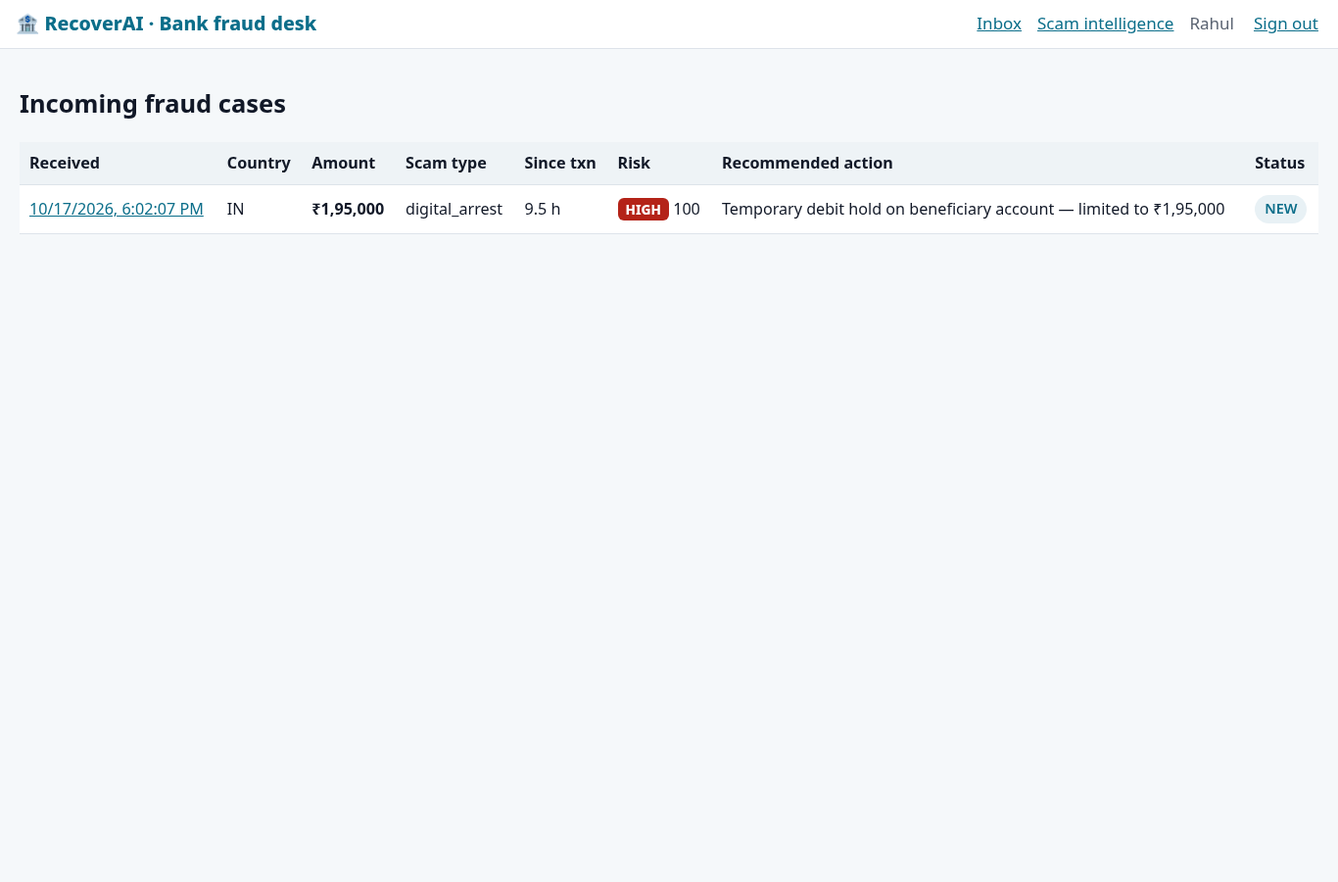
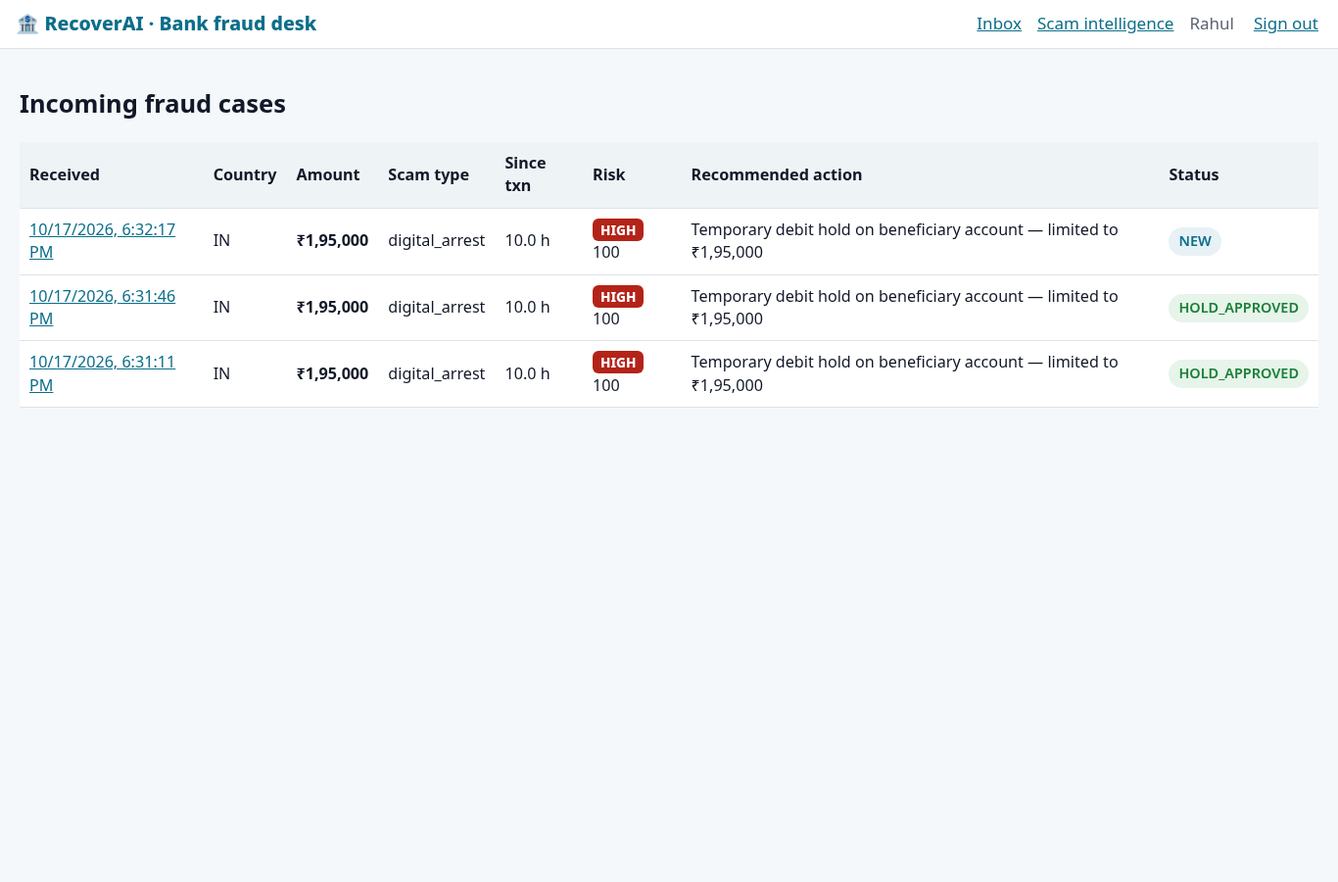
Scripts/docs: async e2e checks (push delivery, BQ features, decision latency, sources), reset, README v2.2

diff --git a/scripts/e2e_demo.py b/scripts/e2e_demo.py
@@ -6,6 +6,8 @@ Deployed stack:     API_BASE=$(cat deploy/.state/run_url) python scripts/e2e_dem
   (anonymous victim sign-in + analyst password sign-in via the Firebase Auth REST API, using
    deploy/.state/sdkconfig.json and deploy/.state/bank_password written by deploy/deploy.sh)
 Exits non-zero on the first failed check. DEMO_MODE must be on for the time-travel step.
+Checks the v2.2 backbone too: bank case created via the fraud-case-submitted Pub/Sub push with BigQuery features,
+the bank decision reaching the victim via bank-decision (timed against the 3 s target), and a cited source (F16).
 """
 from __future__ import annotations
 
@@ -45,6 +47,10 @@ class Api:
         r.raise_for_status()
         return r.json()
 
+    def get_or_none(self, p):
+        r = self.c.get(self.url(p))
+        return r.json() if r.status_code == 200 else None
+
     def post(self, p, body=None):
         r = self.c.post(self.url(p), json=body or {})
         if r.status_code >= 400:
@@ -75,6 +81,16 @@ class Api:
 
     def paste(self, cid, fname):
         return self.post(f"/api/cases/{cid}/evidence", {"type": "text", "textContent": (FIX / fname).read_text()})
+
+
+def poll(fn, timeout: float, every: float = 0.5):
+    end = time.time() + timeout
+    while time.time() < end:
+        r = fn()
+        if r:
+            return r
+        time.sleep(every)
+    return None
 
 
 def kinds(evs):
@@ -122,15 +138,30 @@ def india(v: Api, bank: Api) -> None:
     check(all("612345678901" in d["en"] and "612345678901" in d["local"] for d in card(evs, "drafts")["drafts"]), "drafts carry UTR")
     pack = v.post(f"/api/cases/{cid}/evidence-pack")
     check(httpx.get(v.url(pack["url"]), timeout=60).content[:4] == b"%PDF", "evidence pack PDF downloads")
+    t_send = time.time()
     case = v.post(f"/api/cases/{cid}/send-to-bank", {"consent": True})["case"]
-    check(case["bankStatus"] == "SENT", "case sent to bank via A2A")
+    check(case["bankStatus"] == "SENT" and case.get("bankCaseId"), "consent → published to fraud-case-submitted")
     print(f"  (victim flow {time.time() - t0:.1f}s)")
-    bc = next(b for b in bank.get("/api/bank/cases")["cases"] if b["caseId"] == cid)
-    d = bank.get(f"/api/bank/cases/{bc['id']}")["case"]
+    d = poll(lambda: bank.get_or_none(f"/api/bank/cases/{case['bankCaseId']}"), 15)
+    check(d is not None, f"bank case created by Pub/Sub push ({time.time() - t_send:.1f}s after consent)")
+    d = d["case"]
     check(d["riskLevel"] == "HIGH" and d["recommendedAction"] == "TEMPORARY_HOLD", "bank: HIGH risk, temporary hold recommended")
-    bank.post(f"/api/bank/cases/{bc['id']}/decision", {"decision": "APPROVE_HOLD"})
-    check(v.get(f"/api/cases/{cid}")["case"]["bankStatus"] == "HOLD_APPROVED", "victim sees hold approved")
+    f = d.get("txnFeatures") or {}
+    check(d.get("txnStatus") == "ok" and f.get("credits_24h") == 9 and f.get("account_age_days") == 21,
+          f"signals from transaction data ({d.get('txnSource')}, {d.get('txnQueryMs')} ms)")
+    if d.get("mlRiskScore") is not None:
+        print(f"  (ML mule-risk {d['mlRiskScore']} — advisory)")
+    t_dec = time.time()
+    bank.post(f"/api/bank/cases/{d['id']}/decision", {"decision": "APPROVE_HOLD"})
+    ok = poll(lambda: v.get(f"/api/cases/{cid}")["case"]["bankStatus"] == "HOLD_APPROVED" or None, 10, 0.25)
+    took = time.time() - t_dec
+    check(bool(ok), f"victim sees hold approved via bank-decision event ({took:.1f}s{' — over the 3 s target!' if took > 3 else ''})")
     check(kinds(v.chat(cid, {"text": "Pay ₹5,000 fee and we recover your money"}))[:1] == ["warning"], "recovery-scam warning first")
+    done = next(e for e in v.chat(cid, {"text": "Will I definitely get my money back?"}) if e.get("type") == "done")
+    srcs = (done.get("message") or {}).get("sources") or []
+    check(bool(srcs), f"honest answer cites an official source: {srcs[0]['title'][:60] if srcs else '-'}")
+    intel = bank.get("/api/bank/analytics")
+    check(bool(intel.get("repeat_beneficiaries")), f"scam intelligence panels ({intel.get('source')})")
     r = v.post(f"/api/cases/{cid}/clock", {"jumpToDay": 31})
     check([m["card"]["kind"] for m in r["messages"] if m.get("card")] == ["escalation"], "day-31 ombudsman escalation")
     check(v.post(f"/api/cases/{cid}/clock", {"addDays": 1})["messages"] == [], "escalation fires exactly once")

diff --git a/scripts/reset_demo.py b/scripts/reset_demo.py
@@ -1,15 +1,17 @@
 #!/usr/bin/env python3
-"""Reset demo data between runs: deletes victim cases, bank cases and audit entries, then re-seeds bank accounts.
+"""Reset demo data before recording / judging: delete victim cases, bank cases, audit entries and Pub/Sub dedupe
+records in Firestore, then re-seed the BigQuery synthetic bank data (fresh timestamps) and case_events.
 
-  GOOGLE_CLOUD_PROJECT=<id> MOCK_MODE=false python scripts/reset_demo.py --yes
-  MOCK_MODE=true LOCAL_DATA_DIR=.localdata python scripts/reset_demo.py --yes   # local mock store
+  GOOGLE_CLOUD_PROJECT=recoverai-511917 MOCK_MODE=false ANALYTICS_BACKEND=bigquery BQ_LOCATION=asia-south1 \\
+      python scripts/reset_demo.py --yes
+  MOCK_MODE=true LOCAL_DATA_DIR=backend/.localdata python scripts/reset_demo.py --yes   # local mock store
 Evidence objects in GCS expire via the bucket lifecycle rule; local blobs live under LOCAL_DATA_DIR.
 """
 import argparse
 import sys
 
 import _path  # noqa: F401
-from app.seed import seed_bank_accounts
+from app.seed import seed_bank_data
 from app.store import get_store
 
 
@@ -17,6 +19,7 @@ def main() -> None:
     ap = argparse.ArgumentParser()
     ap.add_argument("--yes", action="store_true", help="really delete")
     ap.add_argument("--keep-victim-cases", action="store_true")
+    ap.add_argument("--no-ml", action="store_true")
     a = ap.parse_args()
     if not a.yes:
         sys.exit("refusing to delete without --yes")
@@ -34,8 +37,9 @@ def main() -> None:
     for x in s.list_audit():
         s.delete_audit(x["id"])
         na += 1
-    seed_bank_accounts(s, force=True)
-    print(f"deleted {nc} cases, {nb} bank cases, {na} audit entries; bank accounts re-seeded")
+    npe = s.delete_processed_events()
+    stats = seed_bank_data(with_ml=not a.no_ml)
+    print(f"deleted {nc} cases, {nb} bank cases, {na} audit entries, {npe} processed events; re-seeded bank data: {stats}")
 
 
 if __name__ == "__main__":

diff --git a/scripts/ui_smoke.py b/scripts/ui_smoke.py
@@ -64,6 +64,10 @@ def main() -> None:
         bank.screenshot(path=str(SHOTS / "04-bank-case-detail.png"), full_page=True)
         bank.get_by_role("button", name="Approve temporary hold").click()
         bank.wait_for_selector(".pill.bstat-HOLD_APPROVED")
+        bank.get_by_role("link", name="Scam intelligence").click()
+        bank.wait_for_selector(".intel table tbody tr")
+        bank.wait_for_timeout(500)
+        bank.screenshot(path=str(SHOTS / "09-bank-scam-intelligence.png"), full_page=True)
 
         pg.goto(case_url)
         pg.wait_for_selector("text=अस्थायी रोक", timeout=10000)

diff --git a/README.md b/README.md
@@ -6,8 +6,9 @@
 2. builds the country-specific recovery plan (India 1930 / NCRP / bank; Malaysia NSRC 997 / bank) from a YAML playbook,
 3. drafts every complaint at once (hotline script, portal complaint, bank letter) and a Hindi-capable evidence-pack PDF,
 4. tracks the legal deadlines and escalates on its own (RBI Ombudsman on day 31),
-5. hands the case, with consent, to a **bank fraud-desk agent** over an A2A envelope. That agent scores mule-account signals with deterministic rules and recommends a temporary, amount-limited debit hold. A human analyst decides, and the victim sees the decision live.
-6. A **recovery-scam guard** runs before the co-pilot on every message.
+5. hands the case, with consent, to a **bank fraud-desk agent**: an A2A envelope published on **Pub/Sub** (`fraud-case-submitted`). That agent queries the beneficiary account's real transaction history in **BigQuery**, scores mule-account signals with deterministic rules (plus an advisory **BigQuery ML** score), and recommends a temporary, amount-limited debit hold. A human analyst decides, and the decision flows back over Pub/Sub (`bank-decision`) to the victim's chat.
+6. grounds explanations of rules in official sources through **Vertex AI Search**, with citations.
+7. A **recovery-scam guard** runs before the co-pilot on every message.
 
 > **Disclaimer:** RecoverAI is a hackathon prototype. It drafts documents and reminders. It is not legal advice, it never handles money, and it never charges victims. All decisions are taken by government agencies and your bank. Every bank account, person and transaction in this repo is synthetic.
 
@@ -33,8 +34,17 @@ flowchart LR
     PB["Playbook engine + clocks<br/>IN.yaml · MY.yaml<br/>(lazy, idempotent)"]
     FIL["Filing agent<br/>templates + Gemini polish"]
     PDF["Evidence pack<br/>WeasyPrint + Noto"]
-    BR["Bank receiver agent<br/>/api/bank/a2a/inbox<br/>deterministic risk rules"]
+    BR["Bank receiver agent<br/>/bank/a2a/inbox (Pub/Sub push)<br/>deterministic risk rules"]
+    EV["Decision handler<br/>/api/events/bank-decision (Pub/Sub push)"]
   end
+
+  subgraph PS["Pub/Sub"]
+    T1(["fraud-case-submitted"])
+    T2(["bank-decision"])
+    DLQ(["recoverai-dlq<br/>(max 5 attempts)"])
+  end
+  BQ[("BigQuery recoverai_analytics<br/>bank_accounts · bank_txn · case_events<br/>+ BQML mule_risk_model")]
+  VS["Vertex AI Search<br/>official RBI / MHA / Malaysia sources"]
 
   GEM["Gemini on Vertex AI<br/>Flash · Flash-Lite"]
   FS[("Firestore<br/>cases · messages · evidence<br/>bank_cases · audit_log")]
@@ -48,14 +58,25 @@ flowchart LR
   API --> GUARD --> COP
   COP --> INT & PB & FIL & PDF
   COP --> PC
-  API -- "A2A envelope (consent v1)" --> BR
+  API -- "A2A envelope (consent v1)" --> T1
+  T1 -- "push · OIDC (pubsub-push SA)" --> BR
+  BR -- "decision" --> T2
+  T2 -- "push · OIDC" --> EV
+  T1 & T2 -. "undeliverable" .-> DLQ
+  BR -- "parameterised feature query · ML.PREDICT" --> BQ
+  API & BR -- "anonymised case_events" --> BQ
+  BANKUI -- "Scam intelligence" --> BQ
+  COP -- "explain_rule" --> VS
   INT & FIL & COP & GUARD & BR --> GEM
   API & BR --> FS
   INT & PDF --> GCS
 ```
 
 * **Victim flow:** chat → Upload card → Facts card (confidence colours, editable) → Plan card + clocks → Drafts card + evidence pack → Consent card → bank. The case panel updates live through Firestore listeners.
-* **Bank flow:** an A2A `fraud_case.submit` envelope reaches the receiver agent. Signals are computed per PRD §10 (VICTIM_REPORT, RECENT_TXN, NEW_ACCOUNT, FAN_IN, RAPID_OUTFLOW, FLAGGED_NUMBER, PROFILE_MISMATCH), giving a score, a level and an action. Gemini writes the reason, and the analyst approves, rejects or asks for more info. Every decision goes to `audit_log` and becomes a co-pilot message in the victim's language.
+* **Bank flow (F15 + F14):** on consent the API publishes the A2A `fraud_case.submit` envelope to `fraud-case-submitted`. Pub/Sub pushes it, with an OIDC token minted for the `pubsub-push` service account, to the receiver agent. The agent verifies the token (audience + email), dedupes on `caseId + sent_at` (`processed_events/{id}`, deterministic bank-case id), and runs one parameterised BigQuery query over `bank_txn` (`backend/sql/features.sql`) for `account_age_days`, `credits_24h`, `distinct_senders_24h`, `outflow_60m_pct` and `credit_ratio_vs_avg`. The features are cached on the bank case and shown as "from transaction data". Signals are computed per PRD §10 (VICTIM_REPORT, RECENT_TXN, NEW_ACCOUNT, FAN_IN, RAPID_OUTFLOW, FLAGGED_NUMBER, PROFILE_MISMATCH), giving a score, a level and an action. If BigQuery is unavailable, the case-only signals are used and the case carries a note. Gemini writes the reason (capped at 15 s, with a template fallback, so the push is acked inside its 30 s deadline). The analyst approves, rejects or asks for more info. Each decision goes to `audit_log` and `case_events`, and is published to `bank-decision`, whose push handler posts it idempotently into the victim's chat in their language. Failed deliveries retry with backoff and land in `recoverai-dlq` after 5 attempts.
+* **Scam intelligence (F14):** anonymised `case_events` (scam type, country, amount band, SHA-256 beneficiary hash, with no names or phone numbers) are written when the victim confirms the facts and when the bank decides. The bank dashboard's *Scam intelligence* tab runs three queries (`backend/sql/scam_intel.sql`): cases by scam type, repeat beneficiary hashes, and cases/amounts by country per day.
+* **Grounded explanations (F16):** `explain_rule` searches a Vertex AI Search data store built from `knowledge/` (official RBI, MHA and Malaysian sources, with the original files and extracted text). The answer cites the top results as source links. Numbers in snippets never count as allowed values for the post-check; only the playbook does. Without a serving config the tool falls back to local BM25 over the same texts, then to the playbook's `rules_text`.
+* **S2 mule-risk model:** a BigQuery ML logistic regression (`backend/sql/ml_model.sql`) trained on the synthetic features. It is shown as an *advisory* score next to the rule score (demo account ≈ 1.0, benign < 0.3); the rules decide the action. Turn it off with `ENABLE_ML_SCORE=false`.
 * **Security:** Firebase ID tokens are verified server-side. Firestore rules allow owner-only reads, bank-claim reads, and **no client writes**. Storage rules are deny-all, with uploads only through short-lived signed URLs. Evidence goes to Gemini inside `<evidence trust="untrusted">` fences with an injection guard. Each user gets 3 open cases and is rate-limited. No keys live in the repo: the deploy uses ADC and the Cloud Run service account.
 
 ## Repository layout
@@ -63,25 +84,30 @@ flowchart LR
 ```text
 backend/            FastAPI service (Cloud Run)
   app/main.py         app factory, routers, /healthz
-  app/routers/        cases.py (victim API + SSE chat), bank.py (A2A inbox + dashboard API), local_blob.py (mock only)
+  app/routers/        cases.py (victim API + SSE chat), bank.py (Pub/Sub push inbox + dashboard API),
+                      events.py (bank-decision push), local_blob.py (mock only)
+  app/events/         pubsub.py (PubSubBus / in-process LocalBus, OIDC push auth, dedupe), handlers.py
+  app/knowledge/      search.py (Vertex AI Search client, local BM25 fallback)
   app/agents/         copilot.py (ADK root agent + tools + stage fallback), intake.py, playbook.py, filing.py,
                       deadline.py, guard.py, bank_receiver.py, voice.py, post_check.py
   app/rules/          engine.py (playbook engine + clocks), formatting.py (₹ lakh grouping, RM, timezones)
-  app/bank/           rules.py (risk signals), data/ (synthetic accounts + high-risk numbers)
+  app/bank/           rules.py (risk signals from BigQuery features), data/ (high-risk numbers)
   app/pdf/            evidence_pack.py (WeasyPrint, Noto Devanagari)
-  app/analytics/bq.py S2 stub (not built)
+  app/analytics/      bq.py (BigQuery + offline LocalAnalytics, BQML), synthetic.py (PRD §12.3 data generator)
+  sql/                create_tables.sql, features.sql, scam_intel.sql, account_features.sql, ml_model.sql, ml_predict.sql
   agent_engine/       S1 stub (not built)
   playbooks/          IN.yaml, MY.yaml
-  tests/              pytest suite (55 tests)
+  tests/              pytest suite (86 tests)
   Dockerfile, requirements.txt
 frontend/           React 19 + Vite 7 + TS (Firebase Hosting)
   src/copilot/        Chat, MessageList, InputBar (text / mic / attach)
   src/cards/          Upload, Facts, Plan, Drafts, Consent, Timeline, Escalation, Warning, Countries
   src/panel/          CasePanel
-  src/bank/           BankApp, Inbox, CaseDetail, ScamIntelligence (S2 placeholder)
+  src/bank/           BankApp, Inbox, CaseDetail, ScamIntelligence (F14)
   src/i18n/           en.json, hi.json, ms.json
+knowledge/          official sources for Vertex AI Search: raw/ (HTML, PDF), text/, sources.json
 fixtures/           synthetic evidence (UPI + bank screenshots, WhatsApp/SMS text, Hindi voice note) + expected JSON
-scripts/            seed.py, make_bank_user.py, e2e_demo.py, reset_demo.py, make_fixtures.py, ui_smoke.py
+scripts/            seed_bigquery.py (seed.py wraps it), make_bank_user.py, e2e_demo.py, reset_demo.py, make_fixtures.py, ui_smoke.py
 deploy/deploy.sh    one-command GCP + Firebase deploy
 docs/screenshots/   UI snapshots (generated by scripts/ui_smoke.py)
 firebase.json  .firebaserc  firestore.rules  storage.rules  cors.json  .env.example
@@ -89,7 +115,7 @@ firebase.json  .firebaserc  firestore.rules  storage.rules  cors.json  .env.exam
 
 ## Run locally (offline mock mode, with no GCP account)
 
-Mock mode swaps Firestore and GCS for a JSON-file store and HMAC-signed local blobs, and swaps Gemini for deterministic fixture-aware stubs. Auth becomes `Bearer mock:<uid>`. Every demo scene works offline.
+Mock mode swaps Firestore and GCS for a JSON-file store and HMAC-signed local blobs, and swaps Gemini for deterministic fixture-aware stubs. Auth becomes `Bearer mock:<uid>`. Pub/Sub becomes an in-process bus that calls the same push handlers (with redelivery and dedupe). BigQuery becomes `LocalAnalytics`, which computes the same features over the same synthetic rows; a DuckDB test checks that the BigQuery SQL gives identical results. Vertex AI Search becomes BM25 over `knowledge/text`. Every demo scene works offline.
 
 ```bash
 # backend (Python 3.12+; WeasyPrint needs pango: apt install libpango-1.0-0 libpangoft2-1.0-0 fonts-noto-core)
@@ -111,47 +137,56 @@ To run local mode against **real** Gemini, set `MOCK_MODE=false` and `AUTH_MODE=
 ## Tests
 
 ```bash
-cd backend && pytest                              # 55 passed, 1 skipped (live-Gemini test skipped offline)
+cd backend && pytest                              # 85 passed, 1 skipped (live-Gemini test skipped offline)
 python ../scripts/e2e_demo.py --mock              # both storylines over HTTP against the local backend
 python ../scripts/ui_smoke.py                     # headless-browser run of the India + bank story; writes docs/screenshots/
 cd ../frontend && npm run build
 ```
 
-The suite covers the playbook engine, deadlines (`effective_from` against the incident's local date, timezones), amount and lakh formatting, digit and scale-word normalisation in the post-check, lazy-clock idempotence (escalation posts exactly once), recovery-scam guard wiring (warning before any token, on chat and on pasted evidence), the draft string-check (UTR, amount and VPA in every draft in both languages), extraction against every fixture, the injection fixture, the Hindi PDF, bank rules, the ADK co-pilot with a scripted fake LLM, and the full IN and MY API storylines.
+The suite covers the playbook engine, deadlines (`effective_from` against the incident's local date, timezones), amount and lakh formatting, digit and scale-word normalisation in the post-check, lazy-clock idempotence (escalation posts exactly once), recovery-scam guard wiring (warning before any token, on chat and on pasted evidence), the draft string-check (UTR, amount and VPA in every draft in both languages), extraction against every fixture, the injection fixture, the Hindi PDF, bank rules, the ADK co-pilot with a scripted fake LLM, and the full IN and MY API storylines. For v2.2 it also covers the synthetic data shape (§12.3), the BigQuery SQL (transpiled with sqlglot and run on DuckDB) matching the Python reference, rules driven by features, BigQuery-down degradation, the BQML score bands, push auth (missing / bad / mock token, malformed bodies), redelivery idempotence (one bank case, one victim message), the decision round trip, anonymised case_events, and cited sources with the post-check.
 
 ## Deploy to Google Cloud
 
-**You need:** a GCP project with **billing enabled**, and an account with Owner (or Editor + Firebase Admin + Service Usage Admin) on it. Install `gcloud`, `firebase-tools` (`npm i -g firebase-tools`), Node 20+, Python 3.12+, `jq` and `openssl`.
+Defaults: project **`recoverai-511917`**, account **`alokkumar.iiitm@gmail.com`**, region `asia-south1` (set in `deploy/deploy.sh`, `.firebaserc` and `.env.example`; override with `PROJECT_ID=`, `GCLOUD_ACCOUNT=`, `REGION=`). The project needs **billing enabled**, and the account needs Owner (or Editor + Firebase Admin + Service Usage Admin). Tools: `gcloud` (with `bq`), `firebase-tools`, Node 20+, Python 3.12+, `jq`, `openssl`, `curl`. On the build box they live in `/home/box/tools`.
 
 ```bash
-gcloud auth login
-gcloud auth application-default login     # used by seed / make_bank_user scripts
-firebase login
+export PATH=/home/box/tools/google-cloud-sdk/bin:/home/box/tools/npm-global/bin:$PATH   # build box only
+gcloud auth login alokkumar.iiitm@gmail.com          # add --no-launch-browser on a headless machine
+gcloud config set project recoverai-511917
+gcloud auth application-default login                # used by the seed / make_bank_user scripts
+firebase login                                       # --no-localhost on a headless machine
 
-PROJECT_ID=<your-project-id> REGION=asia-south1 ./deploy/deploy.sh
+./deploy/deploy.sh            # = all
 ```
 
-`deploy.sh` is idempotent. Subcommands are `all` (default), `platform`, `backend`, `frontend` and `seed`. A full run does the following:
+`deploy.sh` is idempotent and refuses to run if not signed in. Stages are `all` (default) = `platform → backend → pubsub → seed → search → frontend`, plus `check`.
 
-1. Enables the Run, Vertex AI, Firestore, Storage, Cloud Build, Artifact Registry, IAM Credentials, Firebase and Identity Toolkit APIs.
-2. Creates Firestore (Native) and the evidence bucket, with CORS from `cors.json` and a 90-day delete lifecycle (synthetic demo data).
-3. Creates the `recoverai-api` service account with least-privilege roles. It signs URLs through IAM `signBlob`, so no key files are needed.
-4. Adds Firebase to the project, creates the web app, and turns on Anonymous and Email/Password sign-in.
-5. Generates the A2A shared token into the git-ignored `deploy/.state/`.
-6. Runs `gcloud run deploy --source backend` with min 1 instance, a 300 s timeout, `MOCK_MODE=false` and `AUTH_MODE=firebase`.
-7. Seeds the synthetic bank accounts and creates the demo analyst with a generated password and claim `role=bank`.
-8. Builds the frontend with the Firebase web config and deploys Hosting plus Firestore rules (`/api/**` is rewritten to Cloud Run).
+1. **platform.** Enables the Run, Vertex AI, Firestore, Storage, Cloud Build, Artifact Registry, IAM Credentials, BigQuery, Pub/Sub, Discovery Engine, Firebase and Identity Toolkit APIs. It creates Firestore (Native) and the evidence bucket (CORS, 90-day delete lifecycle), and the `recoverai-api` service account with least-privilege roles (signing via IAM `signBlob`, so no key files). It also creates the `recoverai_analytics` dataset and tables (`backend/sql/create_tables.sql`; `bank_txn` is partitioned by day and clustered by account), the `fraud-case-submitted`, `bank-decision` and `recoverai-dlq` topics, and the Firebase web app with Anonymous and Email/Password sign-in.
+2. **backend.** Bundles `knowledge/` into the image and runs `gcloud run deploy --source backend` (min 1 instance, `MOCK_MODE=false`, `AUTH_MODE=firebase`, `EVENT_BUS=pubsub`, `ANALYTICS_BACKEND=bigquery`, and `PUSH_AUDIENCE` set to the deterministic URL `https://recoverai-api-<PROJECT_NUMBER>.<REGION>.run.app`).
+3. **pubsub.** The `pubsub-push` service account and the Pub/Sub service agent's token-creator and dead-letter grants are set up in *platform*. This stage creates the push subscriptions `fraud-case-to-bank → <run-url>/bank/a2a/inbox` and `bank-decision-to-victim → <run-url>/api/events/bank-decision`. Both use an OIDC token for `pubsub-push` (the app verifies audience and email, because the service itself is public for the PWA), a 30 s ack deadline, 5–60 s backoff, and dead-lettering to `recoverai-dlq` after 5 attempts. It also creates the pull subscription `dlq-inspect` on the DLQ.
+4. **seed.** `scripts/seed_bigquery.py` loads ~40 accounts, ~3,000 transactions (timestamps relative to now) and 50 case_events, then trains the BQML model. It also creates the demo analyst (generated password, claim `role=bank`).
+5. **search.** Uploads `knowledge/` to `gs://<project>-recoverai-knowledge` and creates the Vertex AI Search data store, imports the documents with `metadata.jsonl`, creates a search engine and points Cloud Run at its serving config. This stage is best effort. If the REST calls fail (some projects must accept the Vertex AI Search terms in the console first), create an unstructured data store in **AI Applications → Data stores** from the bucket and an app on top of it. Then run `VERTEX_SEARCH_SERVING_CONFIG=projects/<num>/locations/global/collections/default_collection/engines/<id>/servingConfigs/default_search ./deploy/deploy.sh backend`. Until then the co-pilot cites the local BM25 index of the same texts.
+6. **frontend.** Builds with the Firebase web config and deploys Hosting plus Firestore rules (`/api/**` is rewritten to Cloud Run).
 
-Useful env overrides: `GEMINI_LOCATION` (default `global`), `GEMINI_MODEL` and `GEMINI_LITE_MODEL` (check that the IDs are available to your project in Vertex AI Model Garden), `DEMO_MODE` (default `true`), and `BANK_USER_EMAIL`.
+Useful env overrides: `GEMINI_LOCATION` (default `global`), `GEMINI_MODEL` and `GEMINI_LITE_MODEL` (check that the IDs are available to your project in Vertex AI Model Garden), `DEMO_MODE` (default `true`), `ENABLE_ML_SCORE` (default `true`), `BQ_LOCATION` and `BANK_USER_EMAIL`.
 
 After deploying:
 
 ```bash
-API_BASE=$(cat deploy/.state/run_url) .venv/bin/python scripts/e2e_demo.py      # must print "E2E OK"
-GOOGLE_CLOUD_PROJECT=<id> MOCK_MODE=false .venv/bin/python scripts/reset_demo.py --yes   # before recording / judging
+API_BASE=$(cat deploy/.state/run_url) .venv/bin/python scripts/e2e_demo.py      # must print "E2E OK"; also times decision → victim (target ≤ 3 s)
+GOOGLE_CLOUD_PROJECT=recoverai-511917 MOCK_MODE=false ANALYTICS_BACKEND=bigquery BQ_LOCATION=asia-south1 \
+  .venv/bin/python scripts/reset_demo.py --yes                                  # before recording / judging: wipes cases and re-seeds BigQuery
+gcloud pubsub subscriptions pull dlq-inspect --limit 10                # anything dead-lettered?
 ```
 
-Live URLs: `https://<PROJECT_ID>.web.app` (victim) and `https://<PROJECT_ID>.web.app/bank` (analyst; password in `deploy/.state/bank_password`).
+Live URLs: `https://recoverai-511917.web.app` (victim) and `https://recoverai-511917.web.app/bank` (analyst; password in `deploy/.state/bank_password`).
+
+### Deviations from the PRD (deliberate)
+
+* **`outflow_60m_pct`** uses `EXISTS` (a debit counts if any credit preceded it within 60 min) rather than the PRD's credit×debit `JOIN`, which counts a debit once per earlier credit and can go past 100%. The result is also capped at 100 and `COALESCE`d to 0.
+* **`bank_accounts`** has extra columns (`holder_name`, `account_type`, `currency`, `current_balance`) so the dashboard and the hold limit (`min(amount, balance)`) can be computed without the removed Firestore collection.
+* **`PUSH_AUDIENCE`** is the deterministic Cloud Run URL, so subscriptions and the service agree before the first deploy finishes.
+* **Ack deadline:** push handlers must answer within 30 s, so the Gemini bank reason has a 15 s budget and a template fallback.
 
 ## Demo script (≈3 min, PRD §4)
 
@@ -160,12 +195,14 @@ Live URLs: `https://<PROJECT_ID>.web.app` (victim) and `https://<PROJECT_ID>.web
 3. **Malaysia.** Switch the country to *Malaysia* and the language to *Bahasa Melayu*, start a new case and use `my_bank_transfer.png` + `my_sms.txt`. The plan shows *Call NSRC 997* (it counts as your police report) and the bank fraud line, with drafts in Malay and English.
 4. **Escalation.** In Priya's case panel, open *Demo time-travel* and click *Jump to day 31*. An Escalation card appears with the RBI Ombudsman complaint, already filled with the bank reference and complaint date.
 5. **Recovery-scam guard.** Type `Pay ₹5,000 fee and we recover your money`. A red Warning card appears before any reply.
-6. **Honest answer.** Ask "Will I definitely get my money back?". You get no promises, only the conditions taken from the playbook.
+6. **Honest answer.** Ask "Will I definitely get my money back?". You get no promises, only the conditions taken from the playbook, with links to the official sources (Vertex AI Search).
+7. **Scam intelligence.** On the bank desk, open *Scam intelligence*. The demo beneficiary's hash shows up as a repeat account from earlier cases.
 
 Screenshots are in [`docs/screenshots/`](docs/screenshots).
 
 ## Status: not built or stubbed
 
 * **S1 Agent Engine + Memory Bank:** not built (PRD: only after M8 is deployed). `COPILOT_RUNTIME=cloudrun` is the only runtime, and `backend/agent_engine/deploy.py` is a stub.
-* **S2 BigQuery scam intelligence:** not built. `/api/bank/analytics` returns 501, and the dashboard tab says so.
+* **S2:** built (BigQuery ML mule-risk score, advisory).
+* **F16 sources:** `cybercrime.gov.in` and `cms.rbi.org.in` could not be fetched while the corpus was built, so the India sources are the RBI compensation-rules coverage and the MHA PDF. The "Coming soon" markets have no sources.
 * Real bank, NCRP and NSRC integrations are out of scope ([WON'T]). The "Coming soon" countries are display-only.
